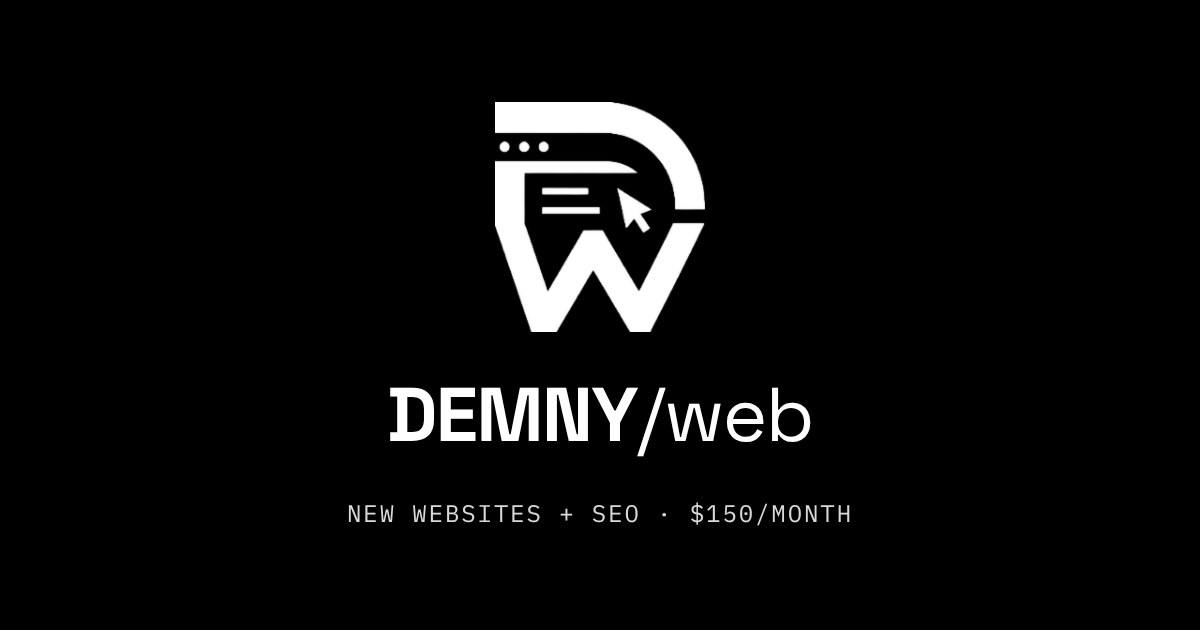
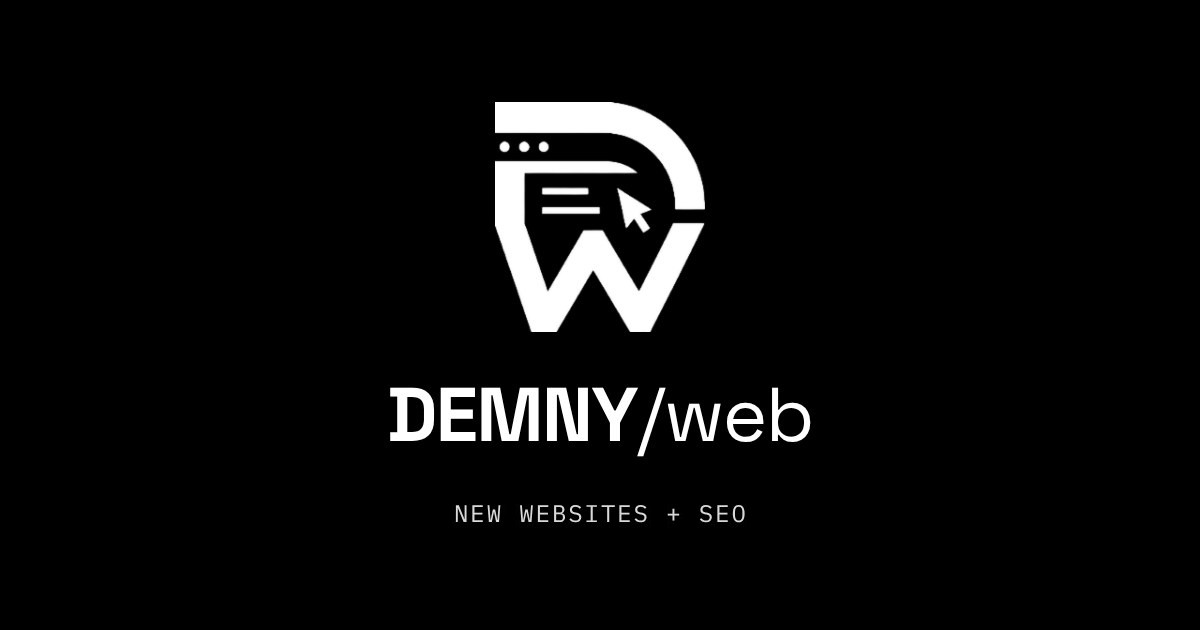
Remove price from link preview image and description
Claude-Session: https://claude.ai/code/session_01JPeoGapFgZFf1u5rRp7ZS9

Changed region(s): [[0.2775, 0.7841, 0.7092, 0.8444]]

diff --git a/index.html b/index.html
@@ -4,7 +4,7 @@
 <meta charset="utf-8">
 <meta name="viewport" content="width=device-width, initial-scale=1">
 <title>Demny Web Agency | New Websites + SEO for Businesses Nationwide</title>
-<meta name="description" content="Carson Demny builds new websites with SEO and AI search setup for businesses anywhere in the U.S. One simple price: $397/month.">
+<meta name="description" content="Carson Demny builds new websites with SEO and AI search setup for businesses anywhere in the U.S.">
 <link rel="icon" href="favicon.ico?v=2" sizes="any">
 <link rel="icon" type="image/png" sizes="32x32" href="favicon-32.png?v=2">
 <link rel="icon" type="image/png" sizes="192x192" href="icon-192.png?v=2">
@@ -13,14 +13,14 @@
 <link rel="canonical" href="https://demnyweb.com/">
 <meta property="og:type" content="website">
 <meta property="og:title" content="Demny Web Agency | New Websites + SEO">
-<meta property="og:description" content="New websites with SEO and AI search setup for businesses nationwide. One simple price: $397/month.">
+<meta property="og:description" content="New websites with SEO and AI search setup for businesses nationwide.">
 <meta property="og:url" content="https://demnyweb.com/">
-<meta property="og:image" content="https://demnyweb.com/img/og.jpg?v=1">
+<meta property="og:image" content="https://demnyweb.com/img/og.jpg?v=2">
 <meta property="og:image:width" content="1200">
 <meta property="og:image:height" content="630">
 <meta property="og:image:alt" content="Demny Web Agency logo">
 <meta property="og:site_name" content="Demny Web Agency">
-<meta name="twitter:image" content="https://demnyweb.com/img/og.jpg?v=1">
+<meta name="twitter:image" content="https://demnyweb.com/img/og.jpg?v=2">
 <meta name="twitter:card" content="summary_large_image">
 <meta name="author" content="Carson Demny">
 <script type="application/ld+json">{"@context": "https://schema.org", "@type": "ProfessionalService", "name": "Demny Web Agency", "url": "https://demnyweb.com/", "description": "New websites with SEO and AI search setup for businesses nationwide, for one simple monthly price.", "telephone": "+1-832-745-3523", "email": "carsondemny@gmail.com", "founder": {"@type": "Person", "name": "Carson Demny", "jobTitle": "Founder", "image": "https://demnyweb.com/img/carson.jpg", "homeLocation": {"@type": "Place", "name": "Cypress, Texas"}}, "address": {"@type": "PostalAddress", "addressLocality": "Cypress", "addressRegion": "TX", "addressCountry": "US"}, "areaServed": {"@type": "Country", "name": "United States"}, "priceRange": "$397/month", "makesOffer": {"@type": "Offer", "name": "Website plan", "price": "397", "priceCurrency": "USD", "description": "Custom multi-page website, hosting and domain, SEO and AI search setup, plus monthly page updates, Google Business Profile posts, review reply help, edits and a report. 3-month minimum, then month-to-month."}, "image": "https://demnyweb.com/img/carson.jpg"}</script>
